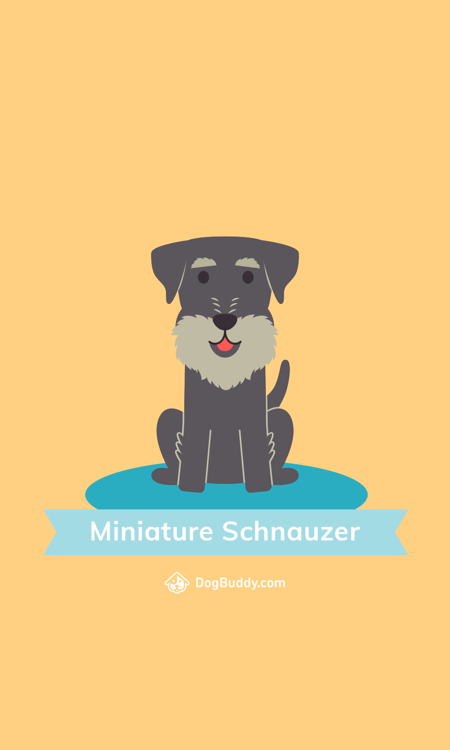
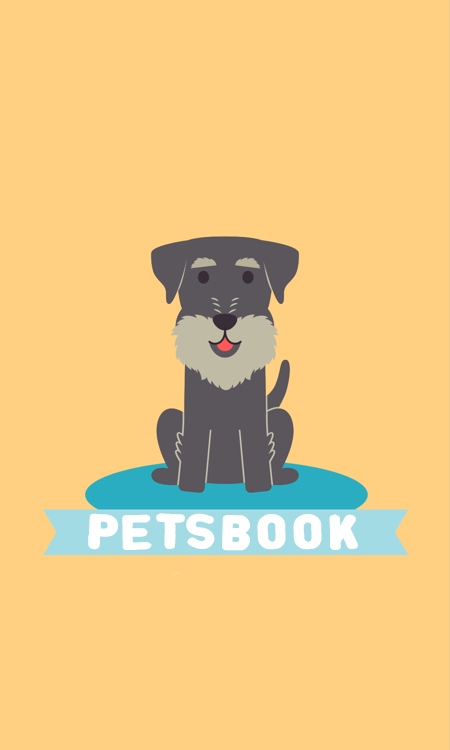
Añadiendo estructura de splash

Changed region(s): [[0.1867, 0.6747, 0.8089, 0.736], [0.3733, 0.7667, 0.6222, 0.7973]]

diff --git a/index.html b/index.html
@@ -1,0 +1,32 @@
+<!DOCTYPE html>
+<html>
+
+<head>
+	<meta charset="utf-8">
+	<meta http-equiv="X-UA-Compatible" content="IE=edge">
+	<meta name="viewport" content="width=device-width, initial-scale=1, shrink-to-fit=no">
+	<title>PETSBOOK</title>
+	<!--Import Favicon-->
+	<link rel="shortcut icon" href="assets/images/favicon.png" type="image/x-icon" />
+	<!--Import Icons-->
+	<link href="https://fonts.googleapis.com/icon?family=Material+Icons" rel="stylesheet" />
+	<!--Import materialize.css-->
+	<link href="vendors/materialize/css/materialize.css" type="text/css" rel="stylesheet" />
+	<!-- Import style.css-->
+	<link rel="stylesheet" type="text/css" href="css/main.css">
+</head>
+
+<body class="background-splash">
+		<div class="progress">
+			<div class="indeterminate"></div>
+		</div>
+
+	<!--Import jQuery before materialize.js-->
+	<script type="text/javascript" src="vendors/js/jquery-3.2.1.min.js"></script>
+	<!--Import materialize.js-->
+	<script type="text/javascript" src="vendors/materialize/js/materialize.min.js"></script>
+	<!-- app.js-->
+	<script type="text/javascript" src="js/app.js"></script>
+</body>
+
+</html>

diff --git a/css/main.css b/css/main.css
@@ -1,0 +1,21 @@
+/* ------------------ Reset ------------------ */
+
+* {
+    box-sizing: border-box;
+    margin: 0;
+    padding: 0;
+  }
+  
+/* -------------------- Estilos para index-------------------- */
+
+.background-splash {
+    background-image: url(../assets/images/phone.png);
+    background-repeat: no-repeat;
+    background-position: center;
+    width: auto;
+    height: 100vh;
+}
+
+.progress {
+    margin: 0;
+}
